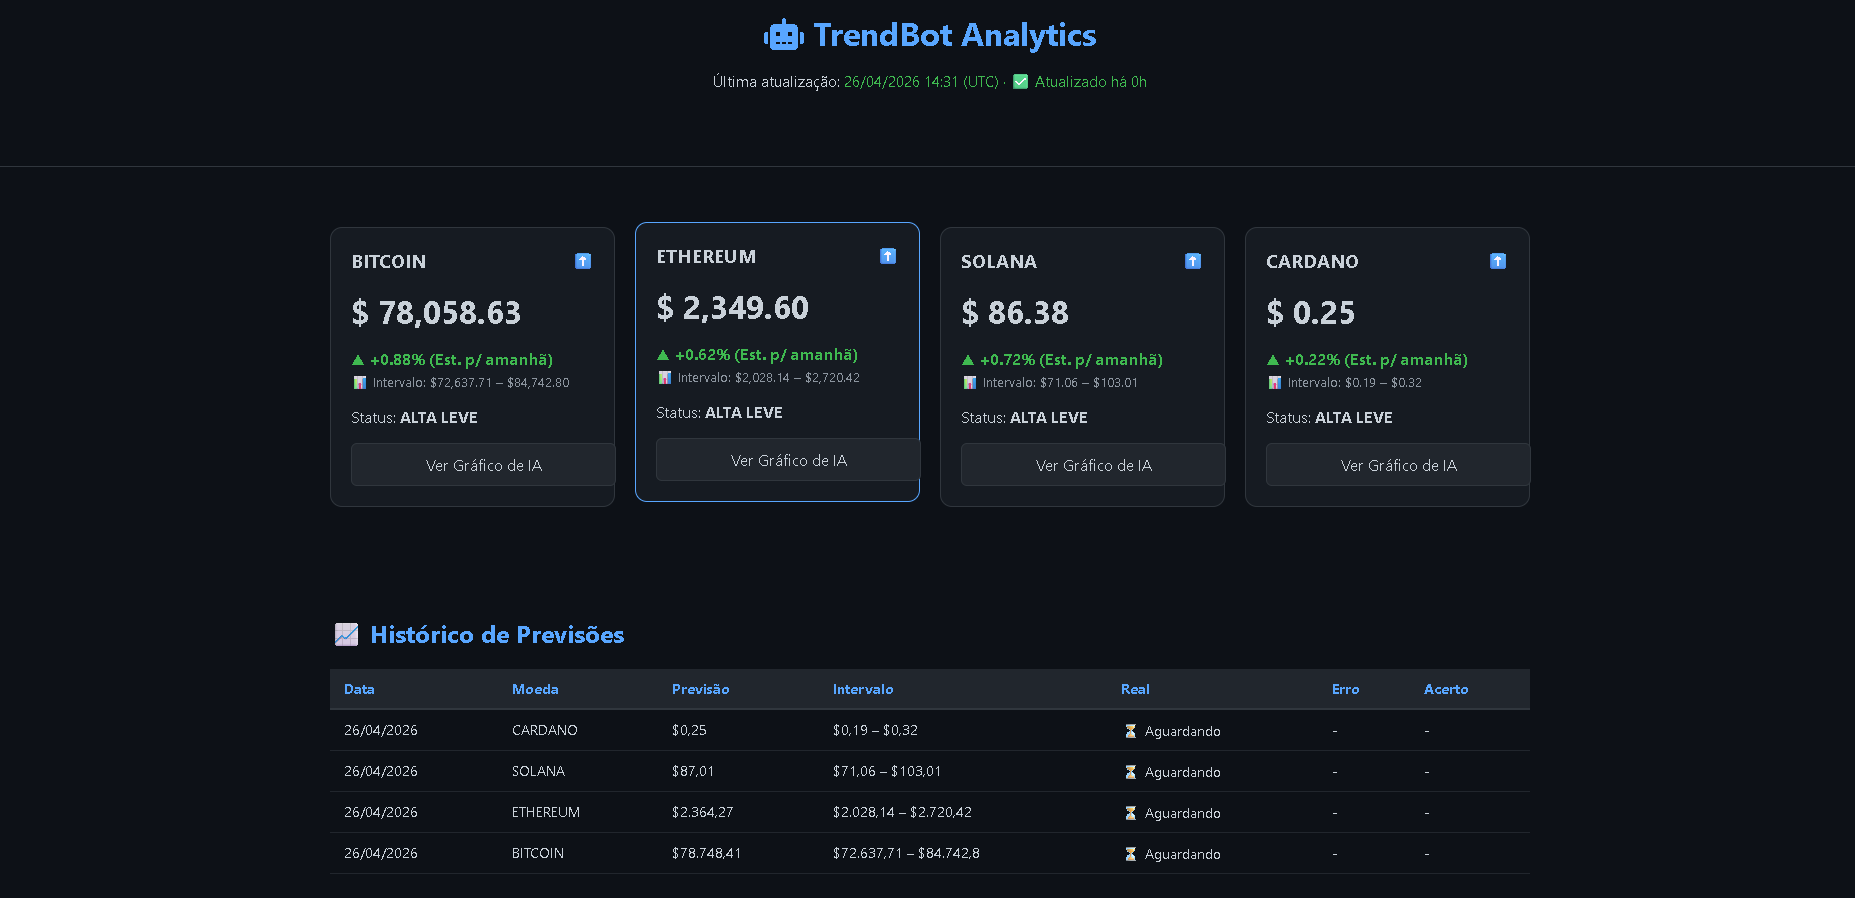
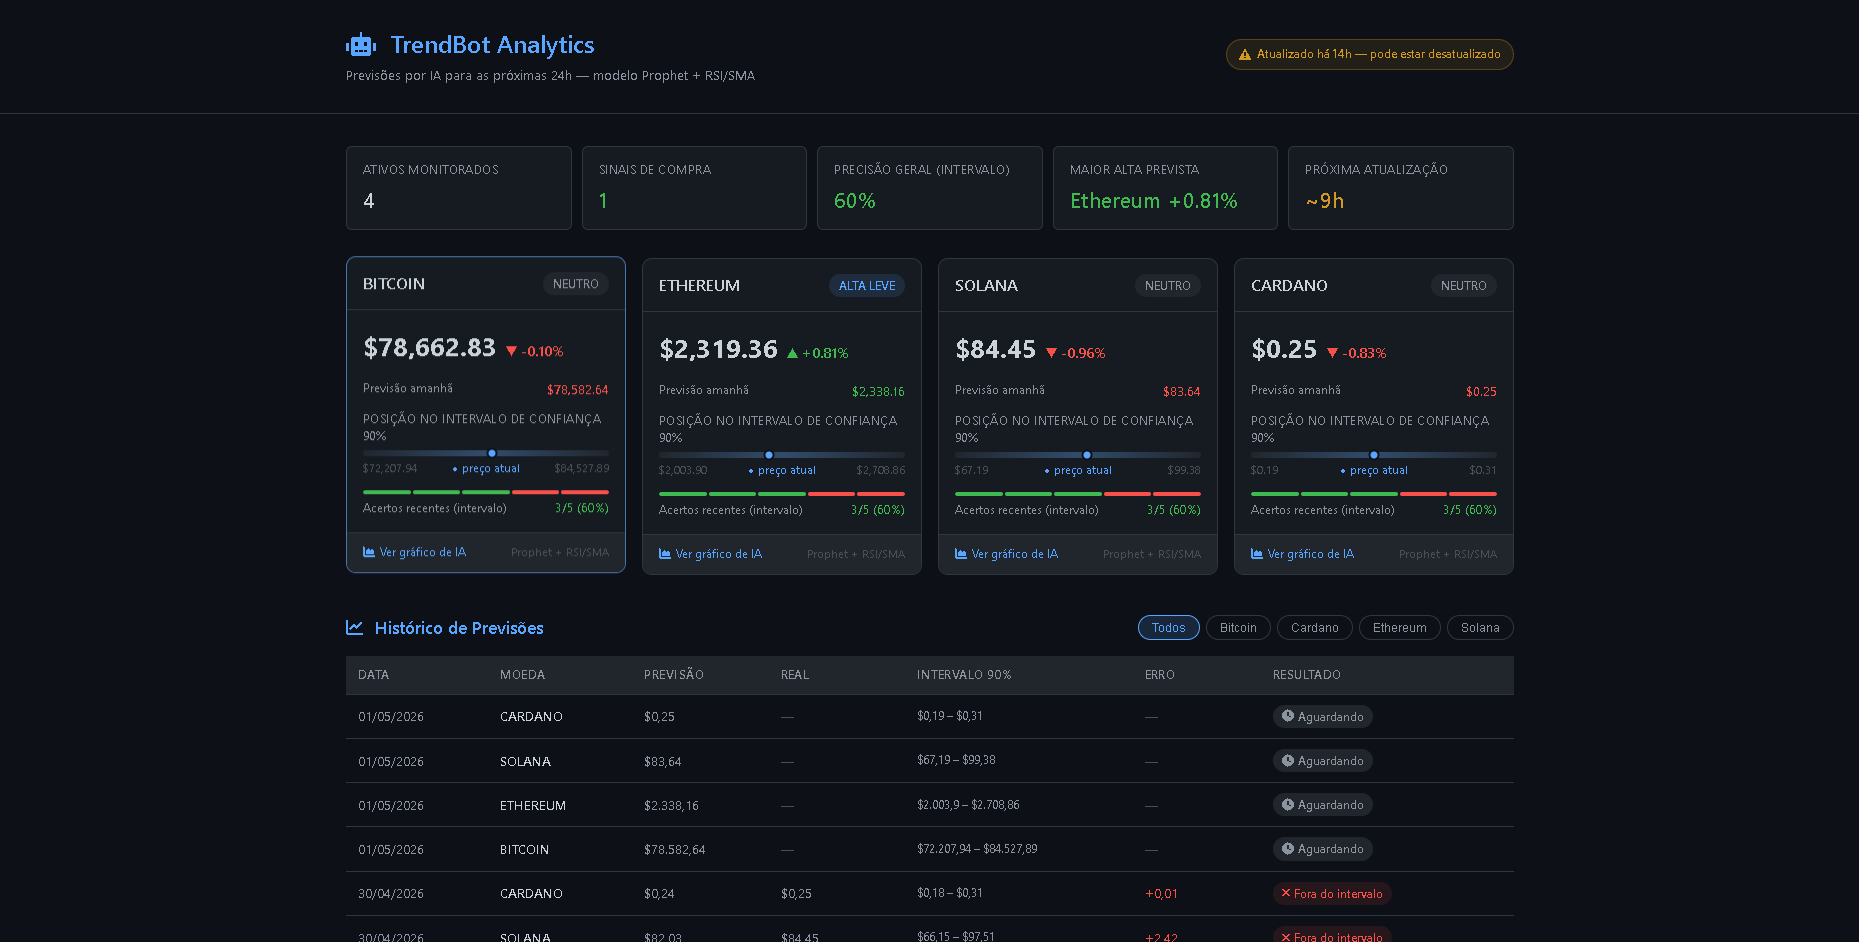
Enhance README and update dashboard image
Replace docs/dashboard.png and overhaul readme.md: expand project description, dashboard and visualization details, clarify ML model (Prophet with RSI/SMA regressors and 90% CI), update alert/validation criteria, list new utilities (limpar_historico.py), raise Python requirement to 3.10, add HORARIO_RODADA env var, and refresh installation/configuration and dependencies. Minor formatting and copy edits throughout to improve clarity and add examples of dashboard/graph outputs.

diff --git a/readme.md b/readme.md
@@ -1,35 +1,35 @@
 # TrendBot: Intelligent Multi-Asset Forecasting & Alert System
-
+ 
 O TrendBot é um ecossistema de análise preditiva para o mercado de criptoativos que transforma dados brutos em inteligência acionável. Ele combina Engenharia de Dados, Machine Learning e Automação para entregar previsões diárias com validação histórica real.
-
- **[Acesse o Dashboard ao vivo](https://evertonldesouza.github.io/TrendBot/)**
-
+ 
+**[Acesse o Dashboard ao vivo](https://evertonldesouza.github.io/TrendBot/)**
+ 
 ---
-
+ 
 ## Dashboard
-
-O sistema publica automaticamente um dashboard web atualizado diariamente com previsões, intervalos de confiança e histórico de acertos do modelo.
-
+ 
+O sistema publica automaticamente um dashboard web atualizado diariamente com previsões, intervalos de confiança, indicadores técnicos e histórico de acertos do modelo.
+ 
 ![Dashboard Preview](docs/dashboard.png)
 
 ---
 
 ## Funcionalidades
-
+ 
 | Módulo | Descrição | Ferramentas |
 |--------|-----------|-------------|
 | **Coleta** | Puxa dados históricos em tempo real via API pública (CoinGecko) | `requests`, `pandas` |
-| **Modelagem Preditiva** | Treina um modelo de Séries Temporais para prever o preço nas próximas 24h com intervalo de confiança | `Prophet (Meta/Facebook)` |
-| **Visualização** | Gera gráfico profissional (PNG) com histórico, previsão e status de alerta (Compra/Venda/Neutro) | `matplotlib` |
-| **Dashboard Web** | Publica automaticamente cards com preço, previsão, variação e intervalo de confiança | `HTML`, `CSS`, `JavaScript` |
-| **Histórico de Acertos** | Salva cada previsão e no dia seguinte compara com o preço real, calculando o erro e validando o modelo | `JSON` |
-| **Relatório por E-mail** | Agrupa análises de todos os ativos e envia um Daily Digest profissional com os gráficos anexados | `smtplib` |
+| **Modelagem Preditiva** | Treina modelo de Séries Temporais com indicadores técnicos (RSI, SMA) como regressores para prever o preço nas próximas 24h com intervalo de confiança de 90% | `Prophet`, `pandas-ta` |
+| **Visualização** | Gera gráfico profissional (PNG) com histórico, SMAs, banda de confiança, painel RSI, cards de estatísticas e status de alerta | `matplotlib` |
+| **Dashboard Web** | Publica cards com preço, previsão, variação, posição no intervalo de confiança e acertos recentes por ativo | `HTML`, `CSS`, `JavaScript` |
+| **Histórico de Acertos** | Salva cada previsão e no ciclo seguinte compara com o preço real, validando se caiu dentro do intervalo de confiança | `JSON` |
+| **Relatório por E-mail** | Agrupa análises de todos os ativos e envia um Daily Digest com os gráficos anexados | `smtplib` |
 | **Automação CI/CD** | Execução diária automatizada via GitHub Actions com commit e push dos dados gerados | `GitHub Actions` |
-
+ 
 ---
-
+ 
 ## Como Funciona
-
+ 
 ```
 CoinGecko API
      │
@@ -37,9 +37,12 @@ CoinGecko API
 Coleta de dados históricos (365 dias)
      │
      ▼
-Modelo Prophet → Previsão D+1 + Intervalo de Confiança
+Cálculo de indicadores técnicos: RSI (14), SMA-7
      │
-     ├──► Gráfico PNG (alerta visual)
+     ▼
+Modelo Prophet + Regressores → Previsão D+1 + Intervalo de Confiança 90%
+     │
+     ├──► Gráfico PNG profissional (preço, SMAs, banda, RSI, cards de stats)
      │
      ├──► data.json (dashboard web)
      │
@@ -47,43 +50,80 @@ Modelo Prophet → Previsão D+1 + Intervalo de Confiança
      │
      └──► E-mail consolidado (Daily Digest)
 ```
-
-O fluxo completo roda automaticamente todos os dias às **13:00 UTC** via GitHub Actions.
-
+ 
+O fluxo completo roda automaticamente todos os dias via GitHub Actions.
+ 
 ---
-
+ 
+## Modelo de IA
+ 
+O TrendBot usa o **Facebook Prophet** com indicadores técnicos como regressores adicionais:
+ 
+| Componente | Função |
+|---|---|
+| Prophet | Captura sazonalidade e tendência de longo prazo |
+| RSI (14 períodos) | Detecta momentum: sobrecomprado / sobrevendido |
+| SMA-7 | Desvio do preço em relação à média móvel de curto prazo |
+| Intervalo 90% | Faixa esperada de preço — critério oficial de acerto |
+ 
+### Critério de acerto
+ 
+O modelo é considerado **correto** quando o preço real cai dentro do **intervalo de confiança de 90%** — não quando acerta o valor exato. Isso reflete o que o modelo realmente garante estatisticamente e evita penalizar previsões boas por pequenas variações de mercado.
+ 
+---
+ 
 ## Estratégia de Alertas
-
+ 
 | Variação Prevista | Status | Sinal |
 |-------------------|--------|-------|
 | Acima de +1.0% | COMPRA FORTE | 🚀 |
 | Entre 0% e +1.0% | ALTA LEVE | ⬆ |
 | Entre -1.0% e 0% | NEUTRO | ⚖ |
 | Abaixo de -1.0% | VENDA | 🚨 |
-
+ 
 ---
-
-## Validação do Modelo (Histórico de Acertos)
-
-A cada execução, o bot:
-
-1. Busca a previsão feita ontem para cada ativo
-2. Compara com o preço real de hoje
-3. Marca como ✅ se o erro for menor que 2% ou ❌ caso contrário
-4. Registra tudo no `historico.json`, exibido na tabela do dashboard
-
-Isso prova empiricamente a eficácia do modelo ao longo do tempo.
-
+ 
+## Dashboard Web
+ 
+O dashboard exibe, para cada ativo:
+ 
+- Preço atual e previsão para amanhã com variação percentual
+- Badge de status do sinal com cor dinâmica
+- Barra visual mostrando onde o preço atual está dentro do intervalo de confiança
+- Mini-histórico de acertos recentes com segmentos verde/vermelho
+- Precisão geral calculada automaticamente a partir do `historico.json`
+- Tabela de histórico com filtro interativo por moeda
+- Indicador de frescor dos dados (verde / amarelo / vermelho por horas desde atualização)
+- Disclaimer de não-recomendação de investimento
 ---
-
+ 
+## Gráficos Gerados
+ 
+Cada moeda gera um gráfico `.png` com layout de dois painéis:
+ 
+**Painel principal:**
+- Linha de preço histórico (últimos 45 dias)
+- Médias móveis SMA-7 e SMA-21
+- Banda de confiança 90% sombreada com rótulos de limite
+- Ponto de previsão com anotação colorida pelo sinal
+- Máximo e mínimo do período com anotações
+- Cards de estatísticas no topo: preço atual, previsão, intervalo, RSI, mín/máx 45d
+**Painel RSI:**
+- RSI (14 períodos) com zonas sobrecomprado (70) e sobrevendido (30) destacadas
+- Valor atual anotado com diagnóstico (Neutro / Sobrecomprado / Sobrevendido)
+**Rodapé:** data de geração, modelo utilizado e aviso de não-recomendação de investimento.
+ 
+> Formatação inteligente de preços: ativos abaixo de $1 (ex: Cardano) exibem 4 casas decimais automaticamente.
+ 
+---
+ 
 ## Instalação e Configuração
-
+ 
 **Pré-requisitos**
-- Python 3.8+
+- Python 3.10+
 - Conta Gmail com senha de app habilitada
-
 **1. Clonar e configurar o ambiente**
-
+ 
 ```bash
 git clone https://github.com/evertonldesouza/TrendBot.git
 cd TrendBot
@@ -91,45 +131,63 @@ python -m venv venv
 source venv/bin/activate  # Windows: venv\Scripts\activate
 pip install -r requirements.txt
 ```
-
+ 
 **2. Criar o arquivo `.env`**
-
+ 
 ```env
 EMAIL_REMETENTE=seu@gmail.com
 EMAIL_SENHA=sua_senha_de_app
 EMAIL_DESTINO=destino@gmail.com
 MOEDAS_ALVO=bitcoin,ethereum,solana,cardano
 DIAS_HISTORICO=365
+HORARIO_RODADA=10:00
 ```
-
+ 
+> ⚠ `EMAIL_SENHA` não é a senha da conta Google. É uma **Senha de App** gerada em:  
+> Conta Google → Segurança → Verificação em duas etapas → Senhas de app
+ 
 **3. Rodar localmente**
-
+ 
 ```bash
 python trendbot_engine.py
 ```
-
-O sistema executa o ciclo completo uma vez e entra em modo de agendamento para rodar diariamente no horário configurado.
-
+ 
+O sistema executa o ciclo completo e entra em modo de agendamento para rodar diariamente no horário configurado. Em ambiente GitHub Actions, encerra após a execução única.
+ 
 ---
-
+ 
+## Utilitários
+ 
+### Limpar duplicatas do histórico
+ 
+Se o histórico acumular entradas duplicadas (mesma data + moeda), rode:
+ 
+```bash
+python limpar_historico.py
+```
+ 
+O script remove duplicatas mantendo a entrada mais recente e exibe um resumo do que foi removido.
+ 
+---
+ 
 ## Automação com GitHub Actions
-
+ 
 O arquivo `.github/workflows/daily_report.yml` configura a execução automática diária.
-
+ 
 **Secrets necessários no repositório:**
-
+ 
 | Secret | Descrição |
 |--------|-----------|
 | `EMAIL_REMETENTE` | Endereço Gmail de envio |
 | `EMAIL_SENHA` | Senha de app do Gmail |
 | `EMAIL_DESTINO` | Endereço de destino do relatório |
-
+ 
 Configure em: `Settings → Secrets and variables → Actions`
-
+ 
 ---
-
+ 
 ## Estrutura do Projeto
-
+ 
 ```
 TrendBot/
 ├── .github/
@@ -139,27 +197,42 @@ TrendBot/
 │   ├── index.html
 │   ├── style.css
 │   ├── script.js
-│   ├── data.json              # Dados atuais (gerado pelo bot)
-│   ├── historico.json         # Histórico de previsões (gerado pelo bot)
-│   └── alerta_*.png           # Gráficos gerados pelo bot
-├── trendbot_coleta.py         # Módulo de coleta via API
-├── trendbot_engine.py         # Motor principal (ML, alertas, e-mail)
+│   ├── data.json              # Previsões do dia (gerado pelo robô)
+│   ├── historico.json         # Histórico de previsões (gerado pelo robô)
+│   └── alerta_*.png           # Gráficos gerados pelo robô
+├── trendbot_coleta.py         # Módulo de coleta via API CoinGecko
+├── trendbot_engine.py         # Motor principal: ML, gráficos, dashboard, e-mail
+├── limpar_historico.py        # Utilitário: remove duplicatas do historico.json
 ├── requirements.txt
 └── README.md
 ```
-
+ 
 ---
-
+ 
+## Dependências
+ 
+```
+requests        — coleta via API
+pandas          — manipulação de dados
+prophet         — modelo de séries temporais
+pandas-ta       — indicadores técnicos (RSI, SMA)
+matplotlib      — geração de gráficos
+schedule        — agendamento local
+python-dotenv   — variáveis de ambiente
+```
+ 
+---
+ 
 ## Autor
-
+ 
 **Everton Lima de Souza**
-
+ 
 [![LinkedIn](https://img.shields.io/badge/LinkedIn-evertonldesouza-blue?logo=linkedin)](https://www.linkedin.com/in/evertonldesouza/)
 [![GitHub](https://img.shields.io/badge/GitHub-evertonldesouza-black?logo=github)](https://github.com/evertonldesouza)
 [![Email](https://img.shields.io/badge/Email-evertonldesouza%40proton.me-purple?logo=protonmail)](mailto:evertonldesouza@proton.me)
-
+ 
 ---
-
+ 
 ## Licença
 
 Este projeto está sob a licença MIT.
